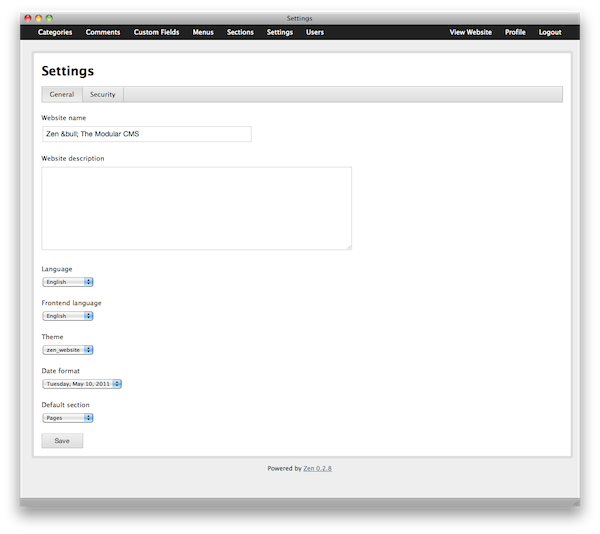
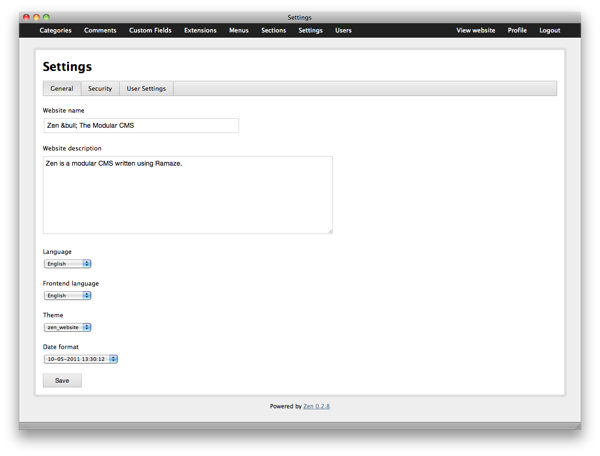
Updated the docs for the settings package

Changed region(s): [[0.03, 0.0307, 0.99, 0.9518]]

diff --git a/lib/zen/package/settings/lib/settings/controller/settings.rb b/lib/zen/package/settings/lib/settings/controller/settings.rb
@@ -29,6 +29,7 @@ module Settings
     #
     # ![General](../../_static/settings/overview_general.png)
     # ![Security](../../_static/settings/overview_security.png)
+    # ![User Settings](../../_static/settings/overview_user.png)
     #
     # Out of the box Zen ships with the following settings:
     #
@@ -39,13 +40,13 @@ module Settings
     #   your website.
     # * **Theme**: the theme to use for the frontend.
     # * **Date format**: the default date format to use in the backend.
-    # * **Default section**: the section to call when a visitor reaches your
-    #   homepage.
     # * **Enable anti-spam**: whether or not comments should be verified to see
     #   if they're spam or ham.
     # * **Anti-spam system**: the anti-spam system to use. Zen by default only
     #   comes with Defensio support.
     # * **Defensio key**: the API key for the Defensio anti-spam system.
+    # * **Allow Registration**: defines whether or not visitors are allowed to
+    #   register a user account.
     #
     # ## Used Permissions
     #
